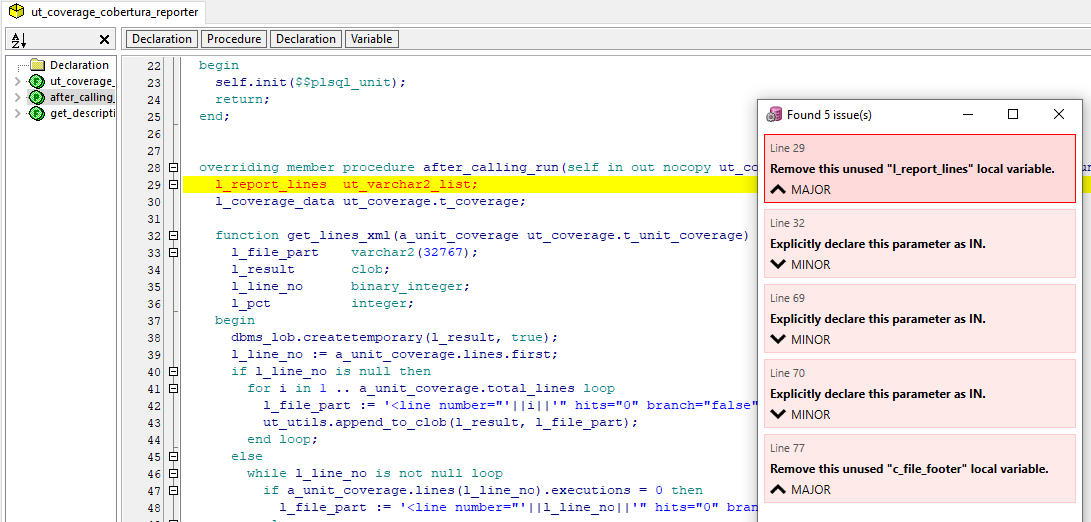
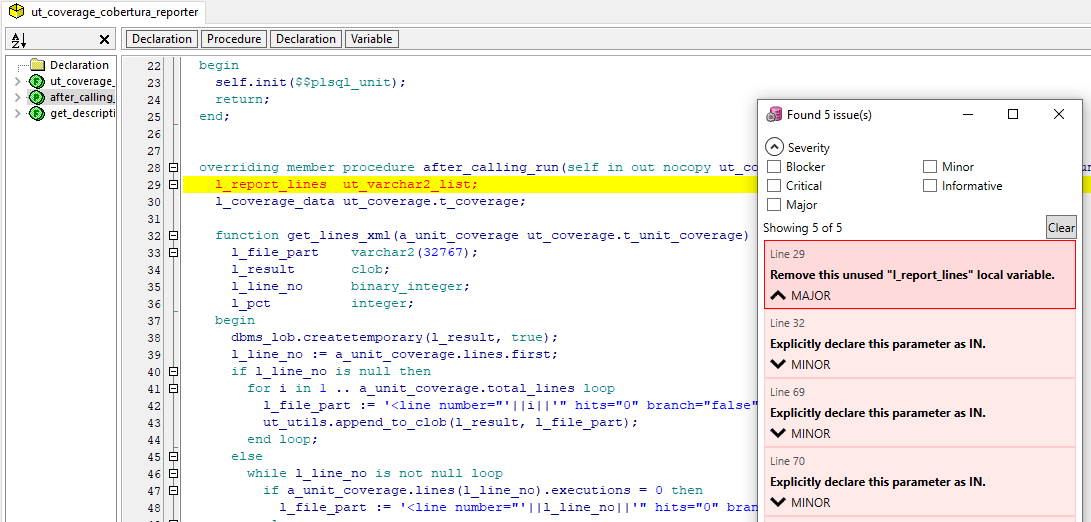
Add basic filtering

Changed region(s): [[0.6856, 0.2452, 0.9973, 1.0]]

diff --git a/ZpaPlugin/ResultWindow.xaml b/ZpaPlugin/ResultWindow.xaml
@@ -47,7 +47,7 @@
             <Setter Property="Template">
                 <Setter.Value>
                     <ControlTemplate TargetType="{x:Type ListViewItem}">
-                        <Border x:Name="Border" BorderBrush="#FCC" BorderThickness="1" Margin="5,3" Padding="5" Background="#FFEAEA">
+                        <Border x:Name="Border" BorderBrush="#FCC" BorderThickness="1" Padding="5" Background="#FFEAEA">
                             <Grid>
                                 <Grid.RowDefinitions>
                                     <RowDefinition Height="*" />
@@ -103,8 +103,28 @@
             </Setter>
         </Style>
     </Window.Resources>
-    <Grid>
-        <ListView Grid.Row="1" ItemContainerStyle="{StaticResource MyListViewItemStyle}" ItemsSource="{Binding IssueView}"
+    <Grid Margin="5">
+        <Grid.ColumnDefinitions>
+            <ColumnDefinition Width="*" />
+            <ColumnDefinition Width="Auto" />
+        </Grid.ColumnDefinitions>
+        <Grid.RowDefinitions>
+            <RowDefinition Height="Auto" />
+            <RowDefinition Height="Auto" />
+            <RowDefinition Height="*" />
+        </Grid.RowDefinitions>
+        <Expander Grid.ColumnSpan="2" IsExpanded="True" Header="Severity">
+            <UniformGrid Columns="2">
+                <CheckBox Margin="2" Content="Blocker" IsChecked="{Binding ShowBlocker}" />
+                <CheckBox Margin="2" Content="Minor" IsChecked="{Binding ShowMinor}" />
+                <CheckBox Margin="2" Content="Critical" IsChecked="{Binding ShowCritical}" />
+                <CheckBox Margin="2" Content="Informative" IsChecked="{Binding ShowInformative}" />
+                <CheckBox Margin="2" Content="Major" IsChecked="{Binding ShowMajor}" />
+            </UniformGrid>
+        </Expander>
+        <TextBlock Grid.Row="1" Text="{Binding FilterText}" VerticalAlignment="Center" />
+        <Button Grid.Row="1" Grid.Column="1" Content="Clear" ToolTip="Reset selected filters" Height="24" VerticalAlignment="Center" Command="{Binding ClearFilters}" />
+        <ListView Grid.Row="2"  Grid.ColumnSpan="2" ItemContainerStyle="{StaticResource MyListViewItemStyle}" ItemsSource="{Binding IssueView}"
                       HorizontalContentAlignment="Stretch" ScrollViewer.HorizontalScrollBarVisibility="Disabled" BorderThickness="0"
                       Background="Transparent" IsSynchronizedWithCurrentItem="True">
             <ListView.Style>

diff --git a/ZpaPlugin/ViewModels/ResultViewModel.cs b/ZpaPlugin/ViewModels/ResultViewModel.cs
@@ -1,5 +1,6 @@
 using System;
 using System.Collections;
+using System.Collections.Generic;
 using System.Collections.ObjectModel;
 using System.ComponentModel;
 using System.Windows;
@@ -13,6 +14,11 @@ namespace ZpaPlugin.ViewModels
     {
         private ListCollectionView issueView;
         private ObservableCollection<IssueView> issues;
+        private bool showBlocker;
+        private bool showCritical;
+        private bool showMajor;
+        private bool showMinor;
+        private bool showInformative;
 
         public ResultViewModel()
         {
@@ -27,11 +33,65 @@ namespace ZpaPlugin.ViewModels
                     new IssueView { Severity = "BLOCKER", Message = "Example of message", StartLine = 10 }
                 };
             }
+
+            ClearFilters = new RelayCommand(OnClearFilters);
         }
+
+        public RelayCommand ClearFilters { get; set; }
 
         public ICollectionView IssueView
         {
             get { return issueView; }
+        }
+
+        public bool ShowBlocker
+        {
+            get { return showBlocker; }
+            set
+            {
+                SetProperty(ref showBlocker, value, nameof(ShowBlocker));
+                RefreshView();
+            }
+        }
+
+        public bool ShowCritical
+        {
+            get { return showCritical; }
+            set
+            {
+                SetProperty(ref showCritical, value, nameof(ShowCritical));
+                RefreshView();
+            }
+        }
+
+        public bool ShowMajor
+        {
+            get { return showMajor; }
+            set
+            {
+                SetProperty(ref showMajor, value, nameof(ShowMajor));
+                RefreshView();
+            }
+        }
+
+        public bool ShowMinor
+        {
+            get { return showMinor; }
+            set
+            {
+                SetProperty(ref showMinor, value, nameof(ShowMinor));
+                RefreshView();
+            }
+        }
+
+        public bool ShowInformative
+        {
+            get { return showInformative; }
+            set
+            {
+                SetProperty(ref showInformative, value, nameof(ShowInformative));
+                RefreshView();
+            }
         }
 
         public ObservableCollection<IssueView> Issues
@@ -42,19 +102,66 @@ namespace ZpaPlugin.ViewModels
                 SetProperty(ref issues, value, nameof(Issues));
 
                 issueView = (ListCollectionView)CollectionViewSource.GetDefaultView(issues);
+                issueView.Filter = ApplyFilters;
                 issueView.CurrentChanged += CurrentIssueChanged;
                 issueView.CustomSort = new CustomSorter();
                 issueView.MoveCurrentToFirst();
                 OnPropertyChanged(nameof(IssueView));
-                issueView.Refresh();
+                RefreshView();
             }
+        }
+
+        public string FilterText
+        {
+            get
+            {
+                return $"Showing {issueView?.Count} of {issues?.Count}";
+            }
+        }
+
+        private void RefreshView()
+        {
+            issueView.Refresh();
+            OnPropertyChanged(nameof(FilterText));
         }
 
         private void CurrentIssueChanged(object sender, EventArgs e)
         {
             var view = (ListCollectionView)sender;
             var issue = view.CurrentItem as IssueView;
-            ZpaPlugin.SetError(issue.StartLine, issue.StartColumn);
+            if (issue == null)
+            {
+                ZpaPlugin.ClearError();
+            }
+            else
+            {
+                ZpaPlugin.SetError(issue.StartLine, issue.StartColumn);
+            }
+        }
+
+        private bool ApplyFilters(object item)
+        {
+            var issue = item as IssueView;
+
+            var severityResult = !ShowBlocker && !ShowCritical && !ShowMajor && !ShowMinor && !ShowInformative;
+            severityResult |= ShowBlocker && issue.Severity == Severity.BLOCKER;
+            severityResult |= ShowCritical && issue.Severity == Severity.CRITICAL;
+            severityResult |= ShowMajor && issue.Severity == Severity.MAJOR;
+            severityResult |= ShowMinor && issue.Severity == Severity.MINOR;
+            severityResult |= ShowInformative && issue.Severity == Severity.INFO;
+
+            return severityResult;
+        }
+
+        private void OnClearFilters()
+        {
+            ShowBlocker = false;
+            ShowCritical = false;
+            ShowMajor = false;
+            ShowMinor = false;
+            ShowInformative = false;
+
+            issueView.MoveCurrentToFirst();
         }
     }
 
@@ -75,15 +182,26 @@ namespace ZpaPlugin.ViewModels
 
         public IssueView(Issue issue)
         {
+            RuleId = issue.RuleId;
             Severity = issue.Severity;
             Message = issue.PrimaryLocation.Message;
             StartLine = issue.PrimaryLocation.TextRange.StartLine;
             StartColumn = issue.PrimaryLocation.TextRange.StartColumn ?? 0;
         }
 
+        public string RuleId { get; internal set; }
         public string Severity { get; internal set; }
         public string Message { get; internal set; }
         public int StartLine { get; internal set; }
         public int StartColumn { get; internal set; }
+    }
+
+    public class Severity
+    {
+        public const string BLOCKER = "BLOCKER";
+        public const string CRITICAL = "CRITICAL";
+        public const string MAJOR = "MAJOR";
+        public const string MINOR = "MINOR";
+        public const string INFO = "INFO";
     }
 }

diff --git a/ZpaPlugin/Models/Issue.cs b/ZpaPlugin/Models/Issue.cs
@@ -11,6 +11,9 @@ namespace ZpaPlugin.Models
 
     public class Issue
     {
+        [JsonProperty("ruleId")]
+        public string RuleId { get; set; }
+
         [JsonProperty("severity")]
         public string Severity { get; set; }
 
